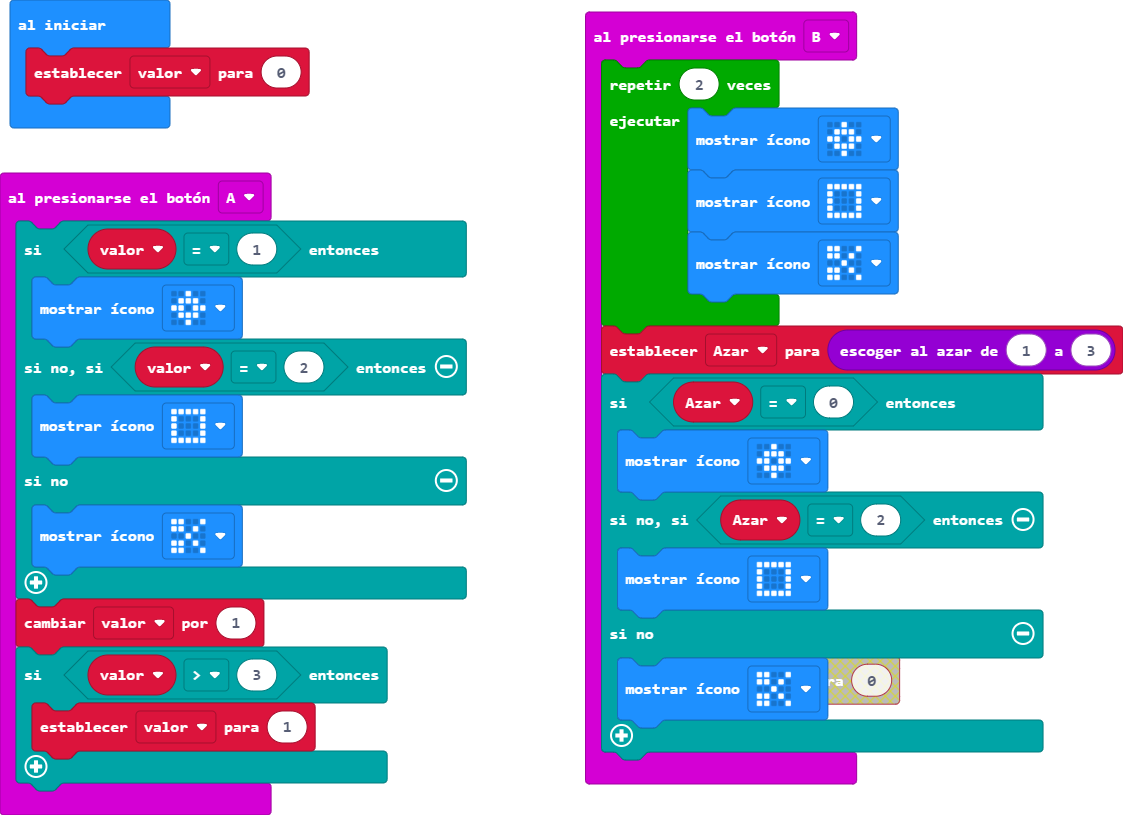
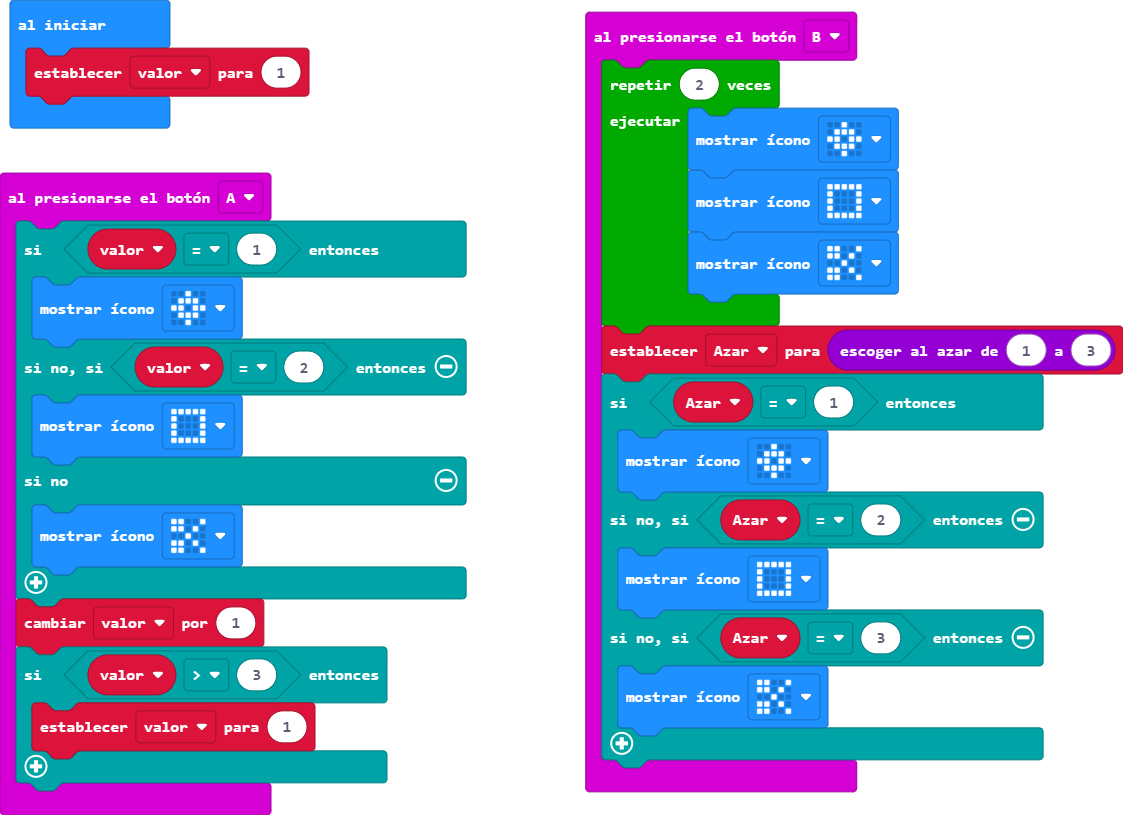
Actualizar main.blocks, main.ts

Changed region(s): [[0.4987, 0.7362, 0.935, 0.9816]]

diff --git a/main.ts b/main.ts
@@ -18,14 +18,14 @@ input.onButtonPressed(Button.B, function () {
         basic.showIcon(IconNames.Scissors)
     }
     Azar = randint(1, 3)
-    if (Azar == 0) {
+    if (Azar == 1) {
         basic.showIcon(IconNames.Target)
     } else if (Azar == 2) {
         basic.showIcon(IconNames.Square)
-    } else {
+    } else if (Azar == 3) {
         basic.showIcon(IconNames.Scissors)
     }
 })
 let Azar = 0
 let valor = 0
-valor = 0
+valor = 1
